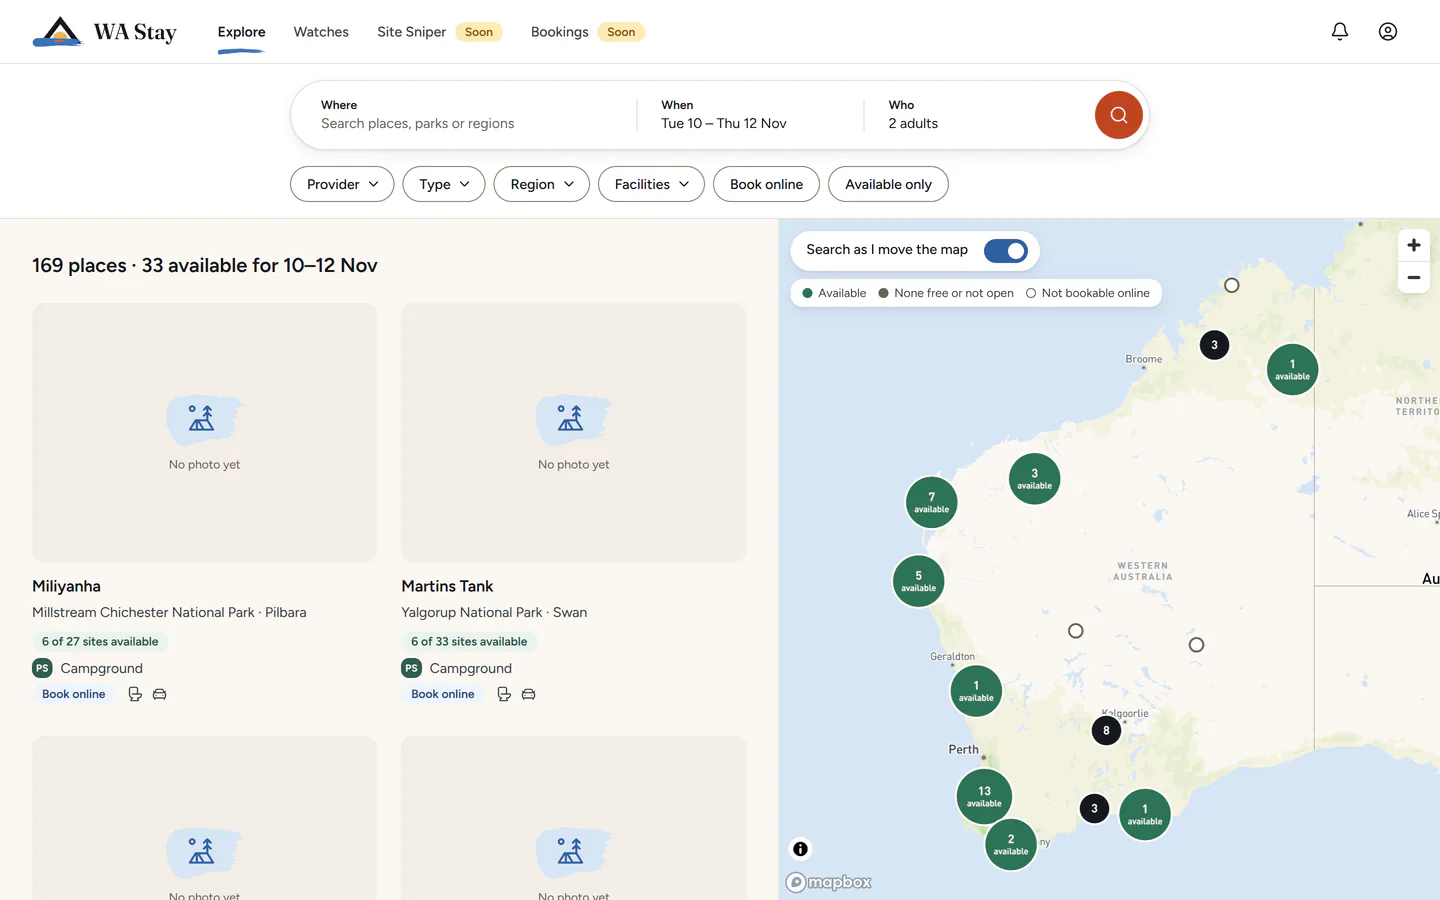
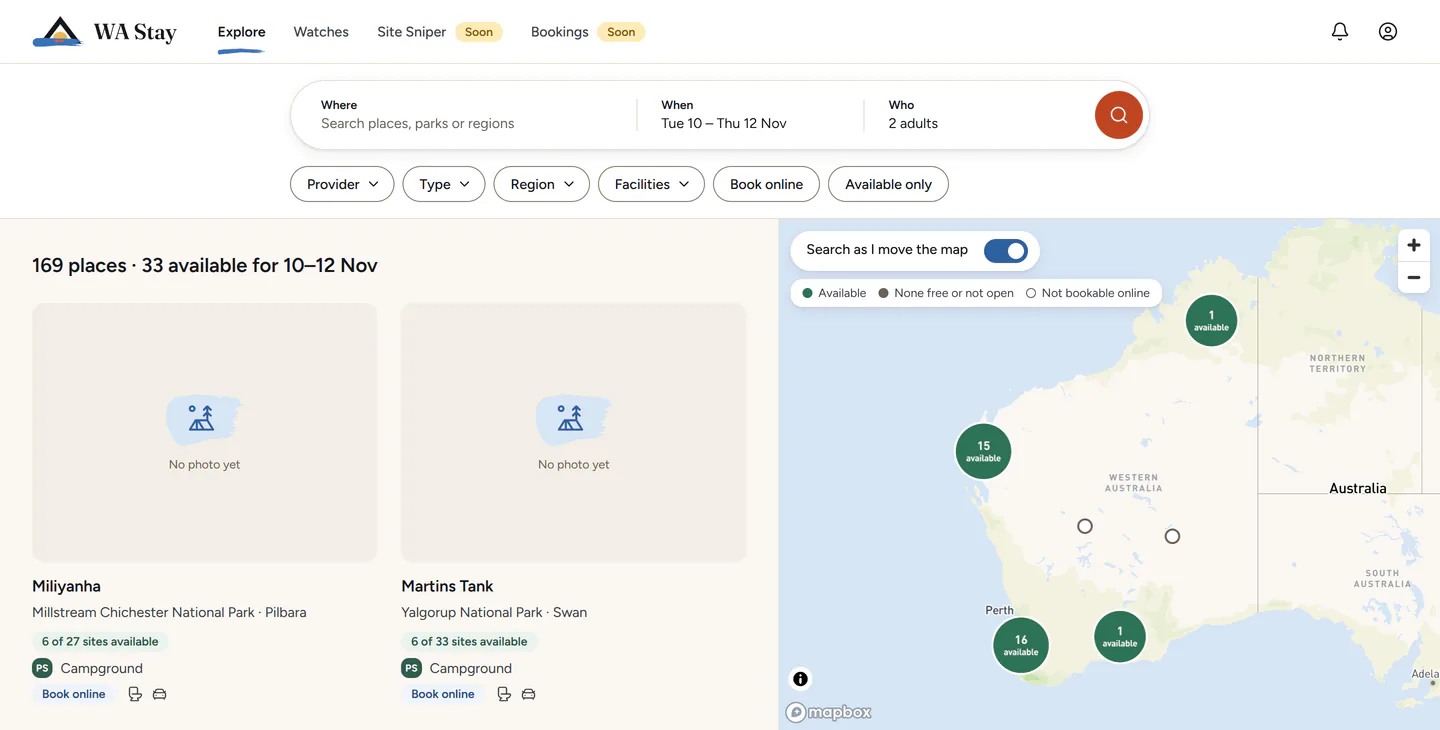
feat(site): the Explore hero at 1440 x 730
At 900 tall the list showed a second row of "No photo yet" tiles. The hero
is now captured with the window at 1440 x 730 (2880 x 1460 at 2x): the list
shows one row of two cards with all their text, and Explore is opened
afresh at that size, so the map frames all of WA with every cluster in
view. explore-map is still taken from the 900-tall window, unchanged.

diff --git a/tests/site/screenshots.spec.ts b/tests/site/screenshots.spec.ts
@@ -33,6 +33,11 @@ const OUT_DIR = process.env.SITE_SCREENSHOTS_DIR ?? path.join(REPO_ROOT, 'test-r
 /** The window's content size in logical pixels, rendered at `SCALE`×. */
 const WINDOW = { width: 1440, height: 900 };
 const SCALE = 2;
+/**
+ * The Explore hero's window height: the list shows one row of cards (no second row of photo
+ * tiles), and the map, framed afresh at this size, all of WA.
+ */
+const HERO_HEIGHT = 730;
 const STAY = 'arrival=2026-11-10&departure=2026-11-12&adults=2';
 const BUNGARRA = '/places/parkstay/20';
 /**
@@ -65,7 +70,8 @@ async function resize(site: DocsApp, height: number): Promise<void> {
 
 /** No cursor, focus ring or transition in the picture. */
 async function settle(page: Page): Promise<void> {
-  await page.mouse.move(WINDOW.width - 1, WINDOW.height - 1);
+  const [width, height] = await page.evaluate(() => [window.innerWidth, window.innerHeight]);
+  await page.mouse.move(width - 1, height - 1);
   await page.evaluate(() => (document.activeElement as HTMLElement | null)?.blur());
   await page.waitForTimeout(800);
 }
@@ -228,9 +234,21 @@ test.describe('@site screenshots', () => {
       results.getByRole('heading', { level: 2, name: /^169 places · [1-9]\d* available for / })
     ).toBeVisible({ timeout: CATALOGUE_TIMEOUT_MS });
     await waitForMap(window);
-    await captureWindow(site, 'explore');
     await settle(window);
     await mapRegion(window).screenshot({ path: file('explore-map') });
+
+    // The hero: a shorter window, with Explore opened afresh in it so the map frames all of WA
+    // at that size (a resize alone keeps the camera).
+    await resize(site, HERO_HEIGHT);
+    await go(window, '/watches');
+    await expect(window.getByRole('heading', { level: 1, name: 'Watches' })).toBeVisible();
+    await go(window, `/?${STAY}`);
+    await expect(
+      results.getByRole('heading', { level: 2, name: /^169 places · [1-9]\d* available for / })
+    ).toBeVisible({ timeout: CATALOGUE_TIMEOUT_MS });
+    await waitForMap(window);
+    await captureWindow(site, 'explore');
+    await resize(site, WINDOW.height);
   });
 
   test('Explore, the South West and south coast', async () => {
